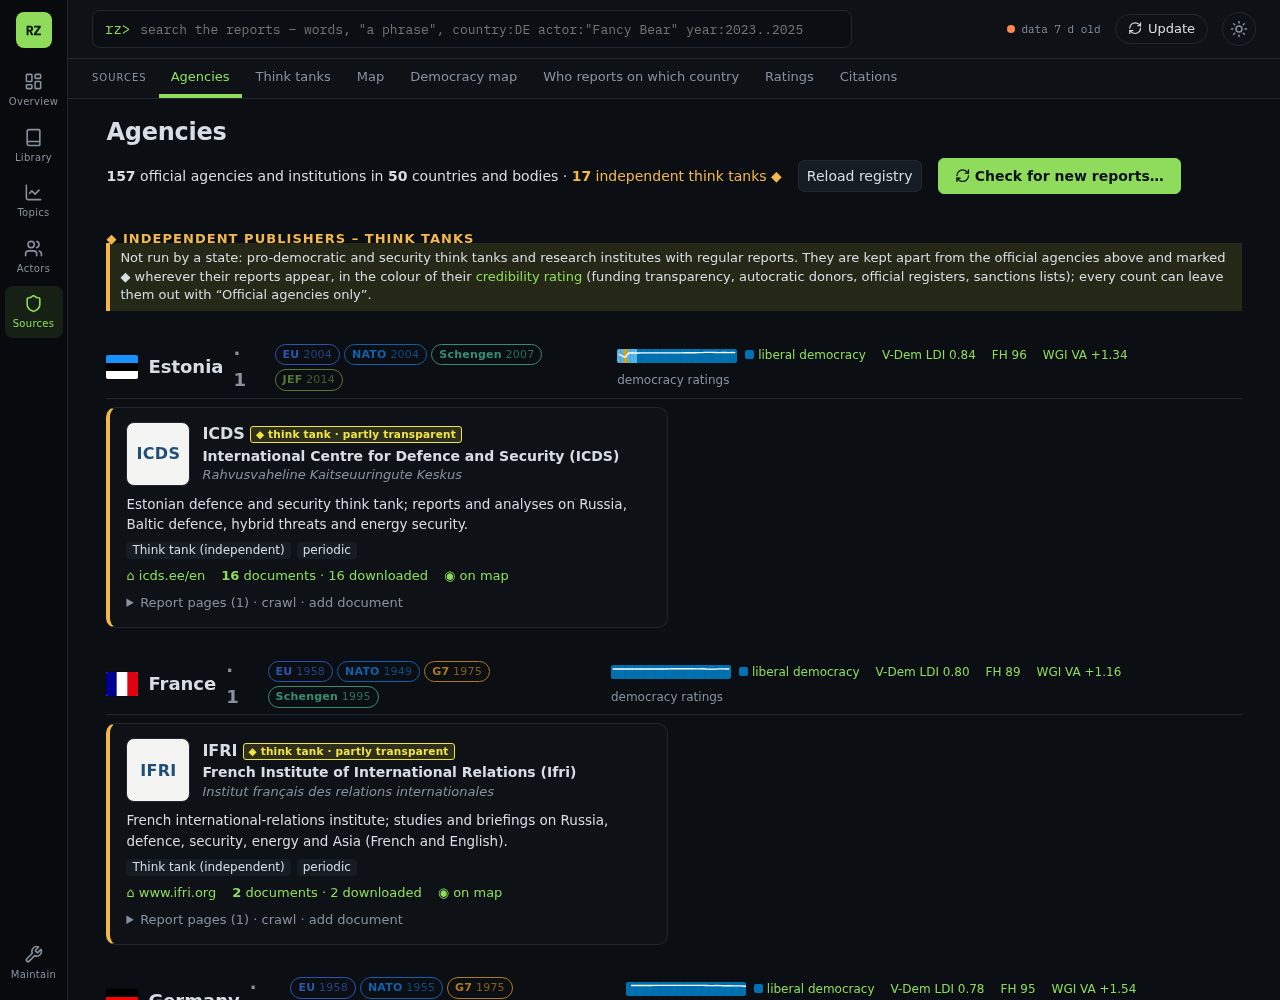
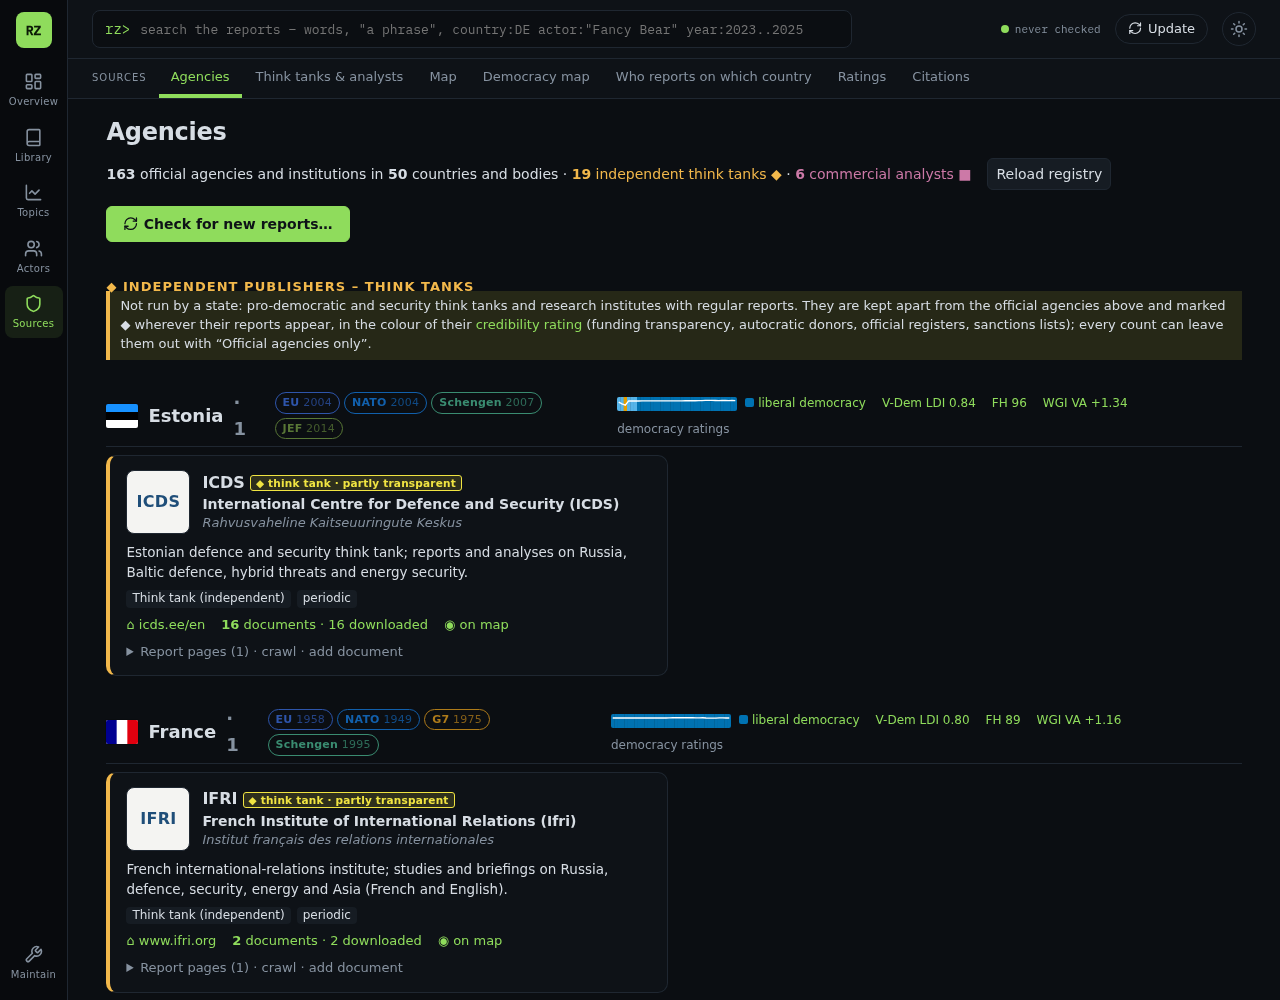
fix: only current Wikidata statements as publisher ties, grants with year, amount and reference; hair-spaced labels closed up

diff --git a/rozvedka/publishers.py b/rozvedka/publishers.py
@@ -244,6 +244,42 @@ def us_awards(names: dict[str, list[str]], today: str | None = None) -> dict[str
     return out
 
 
+CURRENCIES = {"Q4917": "US$", "Q4916": "€", "Q25224": "£", "Q25344": "CHF ", "Q8146": "¥"}
+
+
+def _current(claims: list[dict]) -> list[dict]:
+    """The statements that hold today, by Wikidata's own conventions: deprecated ones never; when some are marked
+    preferred (the current chief executive among all past ones), only those; and none with an end time (P582)."""
+    claims = [c for c in claims if c.get("rank") != "deprecated" and "P582" not in (c.get("qualifiers") or {})]
+    preferred = [c for c in claims if c.get("rank") == "preferred"]
+    return preferred or claims
+
+
+def _qualifiers(claim: dict) -> dict:
+    """When, how much and why of one Wikidata statement (a grant to the publisher is one statement per year), and
+    the URL its reference cites: {when?, amount?, purpose?, ref?}."""
+    from . import actor_sources as src
+    q = claim.get("qualifiers") or {}
+    val = lambda p: next((x["datavalue"]["value"] for x in q.get(p, []) if x.get("datavalue")), None)
+    out = {}
+    if val("P585"):                         # a point in time (a grant of one year)
+        out["when"] = src._time(val("P585"))
+    elif val("P580"):                       # a start time (in office since)
+        out["when"] = "since " + src._time(val("P580"))
+    amount = val("P2121") or val("P2130") or val("P1114")
+    if amount:
+        unit = CURRENCIES.get(amount.get("unit", "").rsplit("/", 1)[-1], "")
+        out["amount"] = f"{unit}{float(amount['amount']):,.0f}"
+    purpose = val("P6208")
+    if purpose:
+        out["purpose"] = purpose["text"] if isinstance(purpose, dict) else str(purpose)
+    ref = next((s["datavalue"]["value"] for r in claim.get("references") or [] for s in r["snaks"].get("P854", [])
+                if s.get("datavalue")), None)
+    if ref:
+        out["ref"] = ref
+    return out
+
+
 def identity(titles: dict[str, str]) -> dict[str, dict]:
     """Wikidata facts and the Wikipedia lead of each publisher, with revision and links."""
     from . import actor_sources as src
@@ -264,13 +300,14 @@ def identity(titles: dict[str, str]) -> dict[str, dict]:
         facts: dict[str, list[str]] = {}
         subjects: dict[str, list[dict]] = {}      # facts that name another subject, with its Wikidata item
         for prop, label in WIKIDATA_PROPS.items():
-            for c in src._claims(e, prop) if e else []:
+            for c in _current(src._claims(e, prop) if e else []):
                 v = c["mainsnak"]["datavalue"]
                 if v["type"] == "wikibase-entityid":
                     ref = v["value"]["id"]
-                    facts.setdefault(label, []).append(labels.get(ref, ref))
+                    if labels.get(ref, ref) not in facts.get(label, []):
+                        facts.setdefault(label, []).append(labels.get(ref, ref))
                     subjects.setdefault(label, []).append({"qid": ref, "label": labels.get(ref, ref), "property": prop,
-                                                           "person": ref in humans})
+                                                           "person": ref in humans, **_qualifiers(c)})
                 elif v["type"] == "time":
                     facts.setdefault(label, []).append(src._time(v["value"]))
                 elif v["type"] == "quantity":
@@ -476,7 +513,9 @@ def influence(source_key: str) -> list[dict]:
         rel, back = WIKIDATA_TIES[fact]
         for x in subjects:
             out.append({"rel": rel, "back": back, "name": x["label"], "kind": "person" if x.get("person") else "org",
-                        "qid": x["qid"],
-                        "evidence": [{"label": f"Wikidata {x['property']} (revision {idn.get('revision')})", "url": idn.get("wikidata")}],
+                        "qid": x["qid"], "amount": " ".join(v for v in (x.get("amount"), f"({x['when']})" if x.get("when") else None) if v) or None,
+                        "note": x.get("purpose"),
+                        "evidence": [{"label": f"Wikidata {x['property']} (revision {idn.get('revision')})", "url": idn.get("wikidata")}]
+                                    + ([{"label": "its reference", "url": x["ref"]}] if x.get("ref") else []),
                         "checked": f["retrieved"] or "", "origin": "wikidata"})
     return out

diff --git a/tests/test_commercial.py b/tests/test_commercial.py
@@ -174,3 +174,26 @@ def test_network_layer(library):
     assert ("pub:US/Freedom House", "Q30", "funded by the government of") in t          # a donor government = its country
     ev = json.loads(t[("Q3274136", "Q11209", "received US federal contracts or grants from")])
     assert ev["origin"] == "usaspending" and ev["amount"] == 3444793.69 and ev["profile"] == "/publisher/3"
+
+
+def _claim(qid, rank="normal", **qualifiers):
+    return {"rank": rank, "mainsnak": {"datavalue": {"type": "wikibase-entityid", "value": {"id": qid}}},
+            "qualifiers": {p: [{"datavalue": {"value": v}}] for p, v in qualifiers.items()}}
+
+
+def test_wikidata_ties_hold_today():
+    # past chief executives carry an end time, the current one is preferred: only that one is a tie
+    claims = [_claim("Q1", "preferred", P580={"time": "+2015-05-07T00:00:00Z", "precision": 11}),
+              _claim("Q2", P582={"time": "+2015-05-06T00:00:00Z", "precision": 11}), _claim("Q3"), _claim("Q4", "deprecated")]
+    assert [c["mainsnak"]["datavalue"]["value"]["id"] for c in publishers._current(claims)] == ["Q1"]
+    # without a preferred one: every statement that has not ended
+    assert [c["mainsnak"]["datavalue"]["value"]["id"] for c in publishers._current(claims[1:])] == ["Q3"]
+
+
+def test_wikidata_grant_keeps_year_amount_purpose_and_reference():
+    grant = _claim("Q786194", P585={"time": "+2023-00-00T00:00:00Z", "precision": 9},
+                   P2121={"amount": "+425000", "unit": "http://www.wikidata.org/entity/Q4917"},
+                   P6208={"text": "to measure impunity", "language": "en"})
+    grant["references"] = [{"snaks": {"P854": [{"datavalue": {"value": "https://www.opensocietyfoundations.org/grants/x"}}]}}]
+    assert publishers._qualifiers(grant) == {"when": "2023", "amount": "US$425,000", "purpose": "to measure impunity",
+                                             "ref": "https://www.opensocietyfoundations.org/grants/x"}

diff --git a/rozvedka/crawler.py b/rozvedka/crawler.py
@@ -164,11 +164,15 @@ def _title_for(a) -> str:
 
 _INVISIBLE = re.compile("[\u00ad\u200b-\u200d\u2060\ufeff]")      # soft hyphen, zero-width characters
 _ODD_SPACE = re.compile("[\u00a0\u2000-\u200a\u202f\u205f\u3000]")
+_LABEL_GAP = re.compile(r"(?<!\w)([^\W\d_])[\u2009\u200a](?=\d)")    # a lone letter, a thin or hair space, a number
 
 
 def clean_spaces(text: str) -> str:
-    """Entities a parser left as text ("T&hairsp;1"), invisible characters and typographic spaces → plain text."""
+    """Entities a parser left as text ("T&hairsp;1"), invisible characters and typographic spaces → plain text. A thin or
+    hair space between a lone letter and a number is a typographic gap inside a label ("T 1" → "T1"); elsewhere it
+    separates words ("Q1 2023")."""
     text = _INVISIBLE.sub("", unescape(text))
+    text = _LABEL_GAP.sub(r"\1", text)
     return " ".join(_ODD_SPACE.sub(" ", text).split())
 
 

diff --git a/rozvedka/nav.py b/rozvedka/nav.py
@@ -36,7 +36,7 @@ GROUPS = [
     ]),
     ("sources", "Sources", "/sources", [
         ("Agencies", "/sources", (), "The official agencies the library follows, by country."),
-        ("Think tanks", "/publishers", ("/publisher",), "Independent publishers with their credibility profile."),
+        ("Think tanks & analysts", "/publishers", ("/publisher",), "Think tanks and commercial analysts with their credibility profile."),
         ("Map", "/map", (), "Where the agencies are."),
         ("Democracy map", "/map/democracy", (), "Regime ratings of the states, over time."),
         ("Who reports on which country", "/map/mentions", (), "Where agencies' reports point."),

diff --git a/tests/test_crawler.py b/tests/test_crawler.py
@@ -225,7 +225,7 @@ def test_a_download_attribute_names_the_file():
     a = BeautifulSoup('<a href="/p/annual-2025.pdf" download="annual-2025.pdf">Download</a>', "html.parser").a
     assert _title_for(a) == "annual 2025"
     a = BeautifulSoup('<a href="/p/t1.pdf" download="ESET Threat Report T&amp;hairsp;1 2022">Download</a>', "html.parser").a
-    assert _title_for(a) == "ESET Threat Report T 1 2022"
+    assert _title_for(a) == "ESET Threat Report T1 2022"
     a = BeautifulSoup('<a href="/p/q4.pdf">ESET APT Activity Report Q4 2022\u00ad–Q1\u200a2023</a>', "html.parser").a
     assert _title_for(a) == "ESET APT Activity Report Q4 2022–Q1 2023"
 

diff --git a/rozvedka/__init__.py b/rozvedka/__init__.py
@@ -5,7 +5,7 @@ from pathlib import Path
 
 # Single source of the release version (Semantic Versioning, https://semver.org).
 # Do not edit by hand: run `python3 tools/bump_version.py patch|minor|major` (see CHANGELOG.md, "Versioning").
-__version__ = "0.68.1"
+__version__ = "0.69.0"
 
 
 @lru_cache(maxsize=1)

diff --git a/CHANGELOG.md b/CHANGELOG.md
@@ -27,6 +27,8 @@ From 0.9.1 on, the significance of a change decides which part of `MAJOR.MINOR.P
 
 ## [Unreleased]
 
+## [0.69.0] – 2026-10-19
+
 ### Added
 - **Commercial analysts – a third kind of publisher.** Companies that sell political-risk, security or threat analysis and
   publish part of it openly are marked ■ (a dashed badge, a square on the map, their own section on Sources and on the
@@ -41,9 +43,15 @@ From 0.9.1 on, the significance of a change decides which part of `MAJOR.MINOR.P
   FY2008, from USAspending.gov (only the exact recipient names count – the API's search is loose).
 - **Owners, sponsors and influence in the network:** each think tank and company is a subject of the network (layer
   "Publisher profiles") linked to its owners, founders, leaders, investors and partners, its donor governments, the US
-  agencies that paid it and the owner, funder and leaders on its Wikidata item – each link with its evidence – and its
+  agencies that paid it and the current owner, funder and leaders on its Wikidata item (past chief executives are left
+  out; a grant shows its year, amount, purpose and the reference Wikidata cites) – each link with its evidence – and its
   profile page lists the same ties.
 - The crawler reads XML sitemaps as lists of publication pages, and a page can follow more than 25 of them (`follow_limit`).
+
+### Fixed
+- Link titles: entities left as text (`&hairsp;`), soft hyphens and typographic spaces become plain text, a hair space
+  inside a label is closed up ("T1 2021", not "T 1 2021"), the `download` attribute names a file behind a bare
+  "Download" link, and a PDF cited inside a sentence keeps its own name instead of the page's heading.
 
 ## [0.68.1] – 2026-10-16
 
@@ -1333,7 +1341,8 @@ From 0.9.1 on, the significance of a change decides which part of `MAJOR.MINOR.P
 - Crawler, polite downloader (robots.txt, per-host delay, PDF check, de-duplication) and FastAPI web portal.
 - systemd user units for the portal and a weekly update timer.
 
-[Unreleased]: https://github.com/iiogurt/Rozvedka/compare/v0.68.1...HEAD
+[Unreleased]: https://github.com/iiogurt/Rozvedka/compare/v0.69.0...HEAD
+[0.69.0]: https://github.com/iiogurt/Rozvedka/compare/v0.68.1...v0.69.0
 [0.68.1]: https://github.com/iiogurt/Rozvedka/compare/v0.68.0...v0.68.1
 [0.68.0]: https://github.com/iiogurt/Rozvedka/compare/v0.67.0...v0.68.0
 [0.67.0]: https://github.com/iiogurt/Rozvedka/compare/v0.66.0...v0.67.0

diff --git a/docs/PUBLISHER_PROFILES.md b/docs/PUBLISHER_PROFILES.md
@@ -88,7 +88,9 @@ its Wikidata item when the gazetteer has it, else a node of its own that opens i
 - `ties` in `sources/publishers.yaml` – owners, founders, leaders, investors, partners, related foundations, researched by hand;
 - a think tank's donor governments → the countries' actors;
 - the US federal agencies that gave it contracts or grants (USAspending.gov) → the agency's actor when one is named so;
-- owner, parent organisation, founder, funder, chair, director and chief executive on its Wikidata item (with the revision).
+- owner, parent organisation, founder, funder, chair, director and chief executive on its Wikidata item (with the revision) –
+  only the statements that hold today (deprecated ones never; only the preferred ones when some are; none with an end
+  time), each with its year, amount and purpose when Wikidata records them (a grant per year) and the URL its reference cites.
 
 So the network can answer "who stands behind the publisher of this report" with the same path search and evidence as for the
 actors the reports name; the publisher page lists the same ties in a table.
